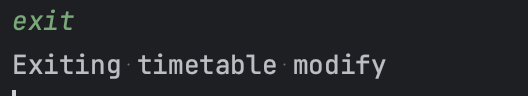
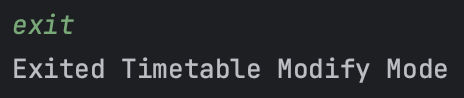
fix user guide

Changed region(s): [[0.0, 0.5625, 0.9655, 0.8438], [0.0, 0.0938, 0.181, 0.375], [0.0, 0.9375, 0.0302, 1.0]]

diff --git a/src/test/java/seedu/duke/models/schema/TimetableUserCommandTest.java b/src/test/java/seedu/duke/models/schema/TimetableUserCommandTest.java
@@ -33,9 +33,8 @@ class TimetableUserCommandTest {
         System.setOut(originalOut);
     }
 
-
     @Test
-    void partialTestTimetableModify_badDayInput_expectTimetableErrorMessage() {
+    void partialTestTimetableModify_perfectInput_expectTimetableErrorMessage() {
         System.setOut(originalOut);
         String addUserInputs = "add cs1010 3";
         currentUserCommand = new UserCommand(addUserInputs);
@@ -49,6 +48,24 @@ class TimetableUserCommandTest {
 
         assertThrows(InvalidTimetableUserCommandException.class,
                 () -> badInput("cs1010 lecture 9 2 Mon"));
+    }
+
+
+    @Test
+    void partialTestTimetableModify_badLessonInput_expectTimetableErrorMessage() {
+        System.setOut(originalOut);
+        String addUserInputs = "add cs1010 3";
+        currentUserCommand = new UserCommand(addUserInputs);
+        if (currentUserCommand.isValid() && !currentUserCommand.isBye()) {
+            currentUserCommand.processCommand(student);
+        }
+
+        System.setOut(new PrintStream(outputStream));
+        student.setCurrentSemesterModules();
+        student.setCurrentSemesterModulesWeekly();
+
+        assertThrows(InvalidTimetableUserCommandException.class,
+                () -> badInput("cs1010 lect 9 2 Monday"));
     }
 
     public void badInput(String timetableUserInput) throws InvalidTimetableUserCommandException {

diff --git a/src/main/java/seedu/duke/views/TimetableUserGuideView.java b/src/main/java/seedu/duke/views/TimetableUserGuideView.java
@@ -66,7 +66,7 @@ public class TimetableUserGuideView {
 
         printToJustify(4);
         printToJustify("startTime", justifyLength);
-        println("integer from 8 to 20 (representing 8am to 8pm)");
+        println("integer from 8 to 19 (representing 8am to 7pm)");
 
         printToJustify(4);
         printToJustify("duration", justifyLength);

diff --git a/docs/UserGuide.md b/docs/UserGuide.md
@@ -43,9 +43,11 @@ It's a comprehensive tool for efficient and successful degree completion.
 - Complete a module in your schedule planner: `complete`
 - View modules left for graduation: `left`
 - Check current pace to graduate: `pace`
+- View weekly timetable: `timetable show`
+- Modify weekly timetable: `timetable modify`
 - Saves the user's schedule and exits the program: `Bye`
 
-Note: Between arguments, only spaces are allowed.
+Note: Between arguments, spaces are required. Arguments need to be passed in the correct order.
 
 ### Viewing help: `help`
 
@@ -338,6 +340,30 @@ User input:
 
 ![pace.jpg](photos%2Fpace.jpeg)
 
+### Add module to schedule planner: `add`
+Opens the user's personalized module schedule planner and adds the chosen module to the semester specified by the user.
+Adding will not be allowed if the current schedule planner does not contain the required prerequisites.
+
+##### Format: `add MODULE_CODE SEMESTER`
+
+* `MODULE_CODE` cannot be empty and must be valid.
+* `SEMESTER` cannot be empty and must be an integer between 1-8 inclusive.
+
+##### Note:
+- We do not check for preclusion's.
+  E.g. If you have completed/added CS2040, and the prerequisite of a module you are trying to add is CS2040C,
+  although they are preclusion's of each other, you are required to satisfy CS2040C! (It is something
+  we hope to implement in the future!)
+
+
+##### Example of usage:
+
+User input:
+`add CS1010 1`
+
+- Expected outcome:
+  ![ss_add_cs1010_1.png](screenshots%2Fss_add_cs1010_1.png)
+
 ### View Weekly Timetable: `timetable show`
 
 Timetable view displays lectures, tutorials and classes (collectively referred to as lessons) 
@@ -347,12 +373,24 @@ Format: `timetable show`
 
 ##### Example of usage:
 
-- if no lectures, tutorials and classes exist , program will display this:
+Scenario 1: No lectures, tutorials or labs exist
+
+User input:
+`timetable show`
+
+Expected outcome:
 ![ss_timetable_lessonNoExist.png](screenshots%2Fss_timetable_lessonNoExist.png)
+
+Scenario 2: The lessons have been specified in Timetable Modify Mode
 - CS2101 has a lecture at 12 for 2 hours on Monday
 - GESS1000 has a lecture at 12 for 2 hours 
 on Tuesday
 - GESS1000 has a tutorial at 8 for 2 hours on Wednesday. 
+
+User input:
+`timetable show`
+
+Expected outcome:
 ![ss_timetable_show_lessonExist.png](screenshots%2Fss_timetable_show_lessonExist.png)
 
 ### Modify Weekly Timetable: `timetable modify`
@@ -364,19 +402,26 @@ lessons in a module:
 
 #### Format for subcommands:
 
-`timetable modify` - To enter timetable modification mode
+`timetable modify` - To enter Timetable Modify Mode
 
 `[MODULE CODE] [LECTURE / TUTORIAL / LAB] [TIME] [DURATION] [DAY]` -  Add a lesson
 and specify its details (time, duration, day)
+- lessonType: lecture, tutorial, lab
+- startTime: integer from 8 to 20 (representing 8am to 8pm)
+- duration: time in hours
+- day: monday, tuesday, wednesday, thursday, friday, saturday, sunday
 
-`[MODULE CODE] clear` - Clears all lessons in the selected module in current semester
+`[MODULE CODE] clear` - Clears all lessons of the selected module in current semester
 
-`exit` - Exits timetable modification mode and return to the main command loop
+`exit` - Exits Timetable Modify Mode and return to the main command loop
 
 ##### Note: 
 
-- Each argument has to be seperated by whitespace.
-- Inputs for TIME and DURATION have to be int values
+- Each argument has to be separated by whitespace.
+- Input for TIME must be an integer from 8 to 19 (representing 8am to 8pm)
+- Input for DURATION must be at least 1
+- Inputs for TIME and DURATION have to be int values and the sum must be 20 or lower 
+
 
 
 ##### Example of Usage: 
@@ -395,7 +440,6 @@ User input:
 - `exit`
 
 ![ss_timetablemodify_exit.png](screenshots%2Fss_timetablemodify_exit.png)
-
 
 ### Save schedule and exit the program: `Bye`
 
